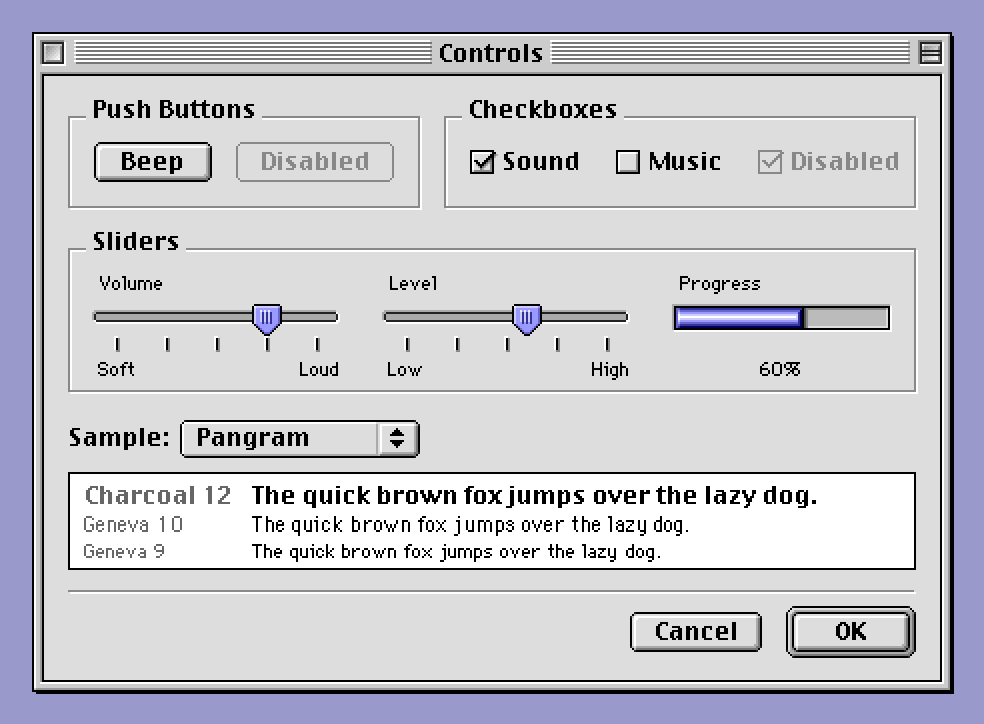
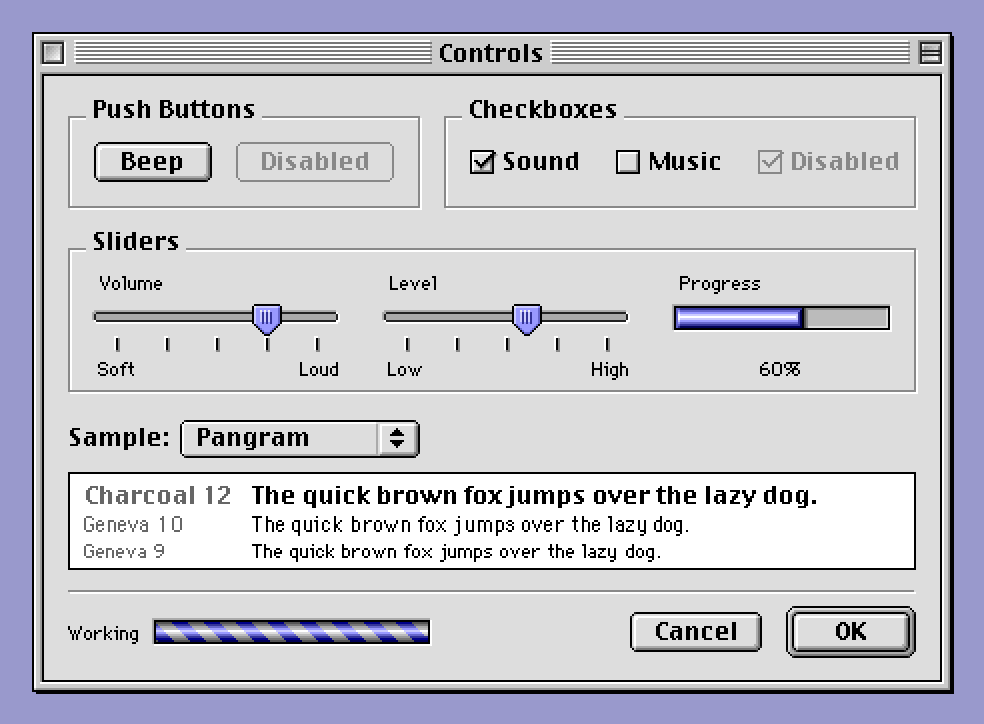
Test the barber pole's CSS layers; fix its notes
The last-column test compared the CDEF emulation with a hand-written
copy of the CSS layering, so deleting the track's padding or the first
layer's content-box clip still passed. It now paints the track from
the padding, layers, boxes and keyframes parsed out of osmium.css, and
those breakages, among seven tried, now fail it.

The pace was measured in Infinite Mac at an unknown emulated CPU
speed; the README and CHANGELOG now say so, and that the short wait
fell on different steps from run to run. The statistics now include
run e04 (84 intervals in 12 runs, long waits 16 to 21 ticks), and
8.5's range counts only step-to-step intervals (16 to 34 ticks). The
first frame is 8.0's CDEF's (8.5's first frame seen was the second
phase). The Finder held it about 13 ticks (4 to 23), since the CDEF's
first idle call redraws it before stepping; Osmium holds it 6, now
recorded as a difference rather than changed.

README: the fill returns as soon as the class goes; remove the bar or
the class when the work ends, since Chromium restyles a moving bar
every frame. The A5 comment in sprites.ts is limited to sprites (menu
highlights use A5 too). The README screenshots now show the new bar;
the same method reproduces the old ones from main byte for byte.

Not changed: the demo's bar still runs while the Controls dialog is
open. OK, Cancel and the close box stop it (0 style recalcs after),
as does prefers-reduced-motion; starting it from a button press would
[…]

Changed region(s): [[0.061, 0.8508, 0.4573, 0.9116]]

diff --git a/src/sprites.test.ts b/src/sprites.test.ts
@@ -239,10 +239,7 @@ describe("the indeterminate progress bar", () => {
     expect(holds).toEqual([6, 19, 6, 19]);
   });
 
-  it("starts at the CDEF's first frame and holds it for reduced motion", () => {
-    // The first frame the CDEF draws (phase 1) is the tile 8px right.
-    expect(css).toMatch(/var\(--osm-sprite-barber\) 8px 0 \/ 16px 10px/);
-    expect(css).toMatch(/var\(--osm-sprite-barber\) 9px 0 \/ 16px 10px/);
+  it("holds still for reduced motion", () => {
     expect(css).toMatch(/@media \(prefers-reduced-motion: reduce\) \{\s*\.osm-progress\.osm-indeterminate > \.osm-progress-track \{ animation: none; \}/);
   });
 
@@ -250,21 +247,58 @@ describe("the indeterminate progress bar", () => {
     expect(css).toMatch(/\.osm-inactive \.osm-progress\.osm-indeterminate > \.osm-progress-track \{\s*background-image: var\(--osm-sprite-barber-inactive\),\s*var\(--osm-sprite-barber-inactive\);/);
   });
 
-  it("repeats the next-to-last column in the last, as QuickDraw drew it", () => {
-    // osmium.css: the tile from the left edge `shift` px right, clipped
-    // 1px short of the right edge, over the same tile 1px further right,
-    // which shows only in the last column. At any width, each of the
-    // four positions draws what one of the CDEF's four phases draws.
-    const drawn = (w: number, shift: number) =>
-      Array.from({ length: 10 }, (_, r) =>
+  it("draws the CDEF's phases at any width, last column too", () => {
+    // Paints the track as osmium.css declares it. Its padding box is
+    // the CDEF's inner rect, w px wide inside the black edge, and the
+    // rule's own padding narrows the content box. Each background layer
+    // repeats the tile along x from its origin box's left edge, moved
+    // by its position, and paints only inside its clip box (one box
+    // sets both, none means padding-box and border-box); the first
+    // layer is on top. Unanimated, and at each keyframe, the track must
+    // show what the CDEF draws in its first phase and in the phase that
+    // step brings, including the last column, which QuickDraw never
+    // started a stripe in and which repeats the one before it.
+    const rule = css.match(
+      /^\.osm-progress\.osm-indeterminate > \.osm-progress-track \{([^}]*)\}/m)![1]!;
+    expect(rule.match(/padding[\w-]*:/g)).toEqual(["padding-right:"]);
+    const pad = Number(rule.match(/padding-right: (\d+)px;/)?.[1] ?? 0);
+    const layers = rule.match(/background:([^;]*);/)![1]!.split(",").map((l) => {
+      const m = l.trim().replace(/\s+/g, " ").match(
+        /^var\(--osm-sprite-barber\) (-?\d+)px 0 \/ 16px 10px repeat-x((?: [a-z]+-box){0,2})$/);
+      expect(m, l).not.toBeNull();
+      const b = m![2]!.split(" ").filter(Boolean);
+      return { x: Number(m![1]), origin: b[0] ?? "padding-box",
+               clip: b[1] ?? b[0] ?? "border-box" };
+    });
+    const frames = [...css.matchAll(
+      /(\d+)% \{ background-position: ([^;]+); \}/g)].map((m) =>
+      m[2]!.split(",").map((p) => Number(p.trim().match(/^(-?\d+)px 0$/)![1])));
+    expect(frames).toHaveLength(5);
+    const paint = (w: number, xs: readonly number[]) => {
+      const box: Record<string, readonly [number, number]> = {
+        "border-box": [-1, w + 1], "padding-box": [0, w],
+        "content-box": [0, w - pad],
+      };
+      return SPRITES.barber.map((line, r) =>
         Array.from({ length: w }, (_, x) => {
-          const col = (x < w - 1 ? x : x - 1) - shift;
-          return (col - r + 64) % 16 < 8 ? "A" : "g";
+          let px = "?";
+          for (let i = layers.length - 1; i >= 0; i--) {
+            const { origin, clip } = layers[i]!;
+            if (x < box[clip]![0] || x >= box[clip]![1]) continue;
+            const col = (((x - box[origin]![0] - xs[i]!) % 16) + 16) % 16;
+            px = line[col] === POLE.accent[r] ? "A" : "g";
+          }
+          return px;
         }).join(""));
+    };
+    const cases: [string, readonly number[], 1 | 2 | 3 | 4][] = [
+      ["unanimated", layers.map((l) => l.x), 1],
+      ...frames.map((xs, i) => [`keyframe ${i}`, xs, (i % 4) + 1] as
+        [string, number[], 1 | 2 | 3 | 4]),
+    ];
     for (let w = 2; w <= 200; w++)
-      for (const [phase, shift] of [[1, 8], [2, 12], [3, 0], [4, 4]] as const)
-        expect(drawn(w, shift), `width ${w}, phase ${phase}`)
-          .toEqual(cdefRows(w, phase));
+      for (const [name, xs, phase] of cases)
+        expect(paint(w, xs), `width ${w}, ${name}`).toEqual(cdefRows(w, phase));
   });
 });
 

diff --git a/src/sprites.ts b/src/sprites.ts
@@ -24,8 +24,8 @@ export type Palette = Readonly<Record<string, string>>;
 
 const COLORS: Palette = {
   // Lavender accent — the default Mac OS 8 highlight ramp, dark to light
-  // (A6 n, A5 j, A4 l, A3 m, A2 p, A1 q). Only the indeterminate
-  // progress bar draws with A5.
+  // (A6 n, A5 j, A4 l, A3 m, A2 p, A1 q). Among the sprites, only the
+  // indeterminate progress bar draws with A5 (j).
   n: "#000055", j: "#000088", l: "#333399", m: "#6666cc", p: "#9999ff",
   q: "#ccccff",
   // Its lightest entry (A0), the gleam on scroll and slider thumbs, and

diff --git a/README.md b/README.md
@@ -79,7 +79,7 @@ Native `<button>` and `<input>` elements stay underneath, so keyboard
 navigation and assistive technology keep working.
 
 <p align="center">
-  <img src="docs/controls.png" width="492" alt="A dialog with push buttons, checkboxes, sliders, a progress bar, a pop-up button and text in Charcoal 12, Geneva 10 and Geneva 9">
+  <img src="docs/controls.png" width="492" alt="A dialog with push buttons, checkboxes, sliders, a progress bar, a pop-up button, an indeterminate progress bar and text in Charcoal 12, Geneva 10 and Geneva 9">
   <img src="docs/finder.png" width="532" alt="A Finder list view with a placard, sortable column headers, icons, a selected row and scroll bars">
   <img src="docs/panel.png" width="552" alt="A control panel with bevel buttons, a list box, a preview well and a caption area">
   <img src="docs/appearance.png" width="492" alt="An Appearance window with Appearance, Fonts and Options tabs over a pane of titled pop-up buttons with captions">
@@ -260,9 +260,11 @@ stripes in the accent color that move to the right:
 
 Leave out `aria-valuenow`: a progress bar without a value is how ARIA
 marks progress of unknown length. A `.osm-progress-fill` inside stays
-hidden until you remove the class and set `--osm-value` again. In an
-inactive window the stripes dim and keep moving, as on a Mac. With
-`prefers-reduced-motion` they stand still.
+hidden while the class is on. In an inactive window the stripes dim
+and keep moving, as on a Mac. With `prefers-reduced-motion` they stand
+still. Remove the bar, or the class, when the work ends: while the
+stripes move, Chromium recalculates style every frame, not only at
+each step.
 
 How faithful it is:
 
@@ -276,10 +278,16 @@ How faithful it is:
 - Each step moves the stripes 4px, as every captured step did.
 - The pace is the Finder's, not the control's. A Mac OS 8 application
   moved the stripes each time it gave the control idle time, at most
-  every 2 ticks (1/30 s). Mac OS 8.0's Finder, preparing a copy, moved
-  them alternately 6 and 19 ticks apart, and Osmium does the same; 8.5's
-  Finder took 14 to 34 ticks a step. The stripes move on their own in
-  Osmium, as long as the element is shown.
+  every 2 ticks (1/30 s). Osmium steps alternately 6 and 19 ticks
+  apart, the pace of Mac OS 8.0's Finder preparing a copy in the
+  emulator (Infinite Mac, at an unknown emulated CPU speed), so a real
+  Mac may have been faster or slower. Which steps got the short wait
+  varied between runs. 8.5's Finder, in the same emulator, stepped
+  every 16 to 34 ticks. The stripes move on their own in Osmium, as
+  long as the element is shown.
+- The Finder showed the first frame longer than Osmium's 6 ticks:
+  about 13 (4 to 23 in ten runs), because the control's first idle
+  call redraws that frame before it steps.
 - The black-and-white stripes Mac OS drew on a 1-bit screen aren't
   included.
 

diff --git a/CHANGELOG.md b/CHANGELOG.md
@@ -21,11 +21,15 @@
   The pace is the Finder's, not the control's: the CDEF steps whenever
   the application idles it, at most every 2 ticks. Osmium steps
   alternately 6 and 19 ticks apart (a 50-tick cycle), the pace 8.0's
-  Finder kept while it counted the items to copy (75 intervals in 11
-  runs, 5 to 9 and 16 to 20 ticks); 8.5's Finder took 14 to 34 ticks.
-  The first frame is the CDEF's first, which stays still under
-  `prefers-reduced-motion`. Derived, not captured: 8.0 accents other
-  than Lavender and Ivy (the CDEF reads the same entries of any
+  Finder kept in the emulator (Infinite Mac, at an unknown emulated
+  CPU speed) while it counted the items to copy: 84 intervals in 12
+  runs, 5 to 9 and 16 to 21 ticks, with the short wait on different
+  steps from run to run. 8.5's Finder there stepped every 16 to 34
+  ticks. The first frame is 8.0's CDEF's first, which stays still
+  under `prefers-reduced-motion`. The Finder showed it for about 13
+  ticks (4 to 23), as the CDEF's first idle call redraws it before
+  stepping; Osmium shows it for 6. Derived, not captured: 8.0 accents
+  other than Lavender and Ivy (the CDEF reads the same entries of any
   table) and 8.5 variations other than Lavender. Not included: the
   1-bit black and white stripes.
 - The demo's Controls dialog has an indeterminate progress bar beside
